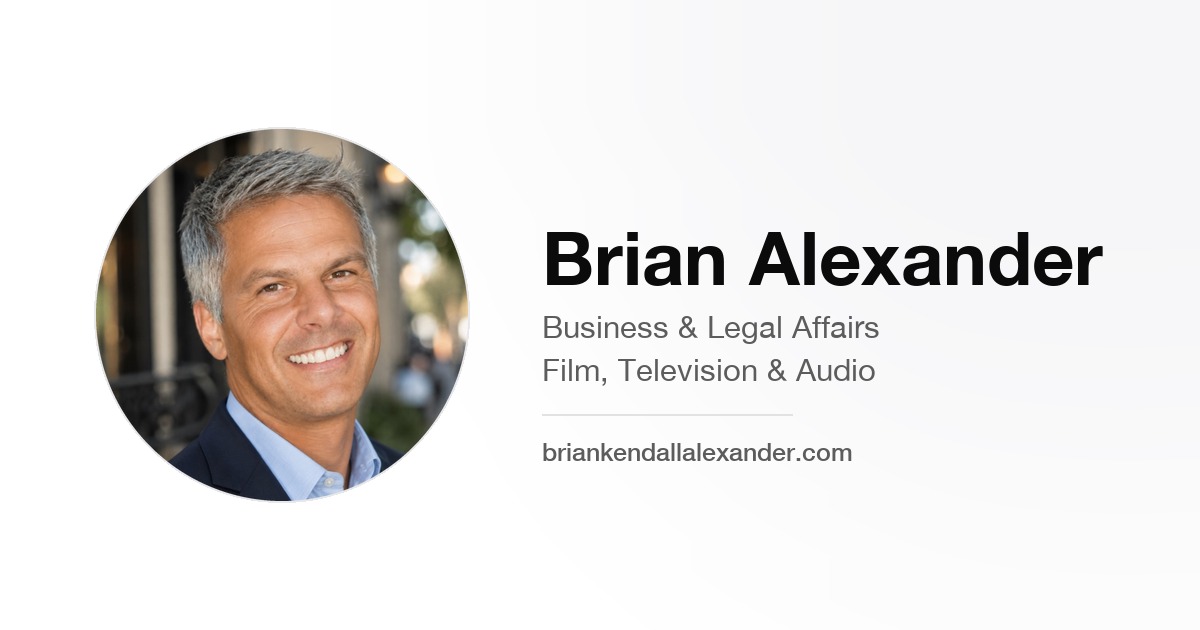
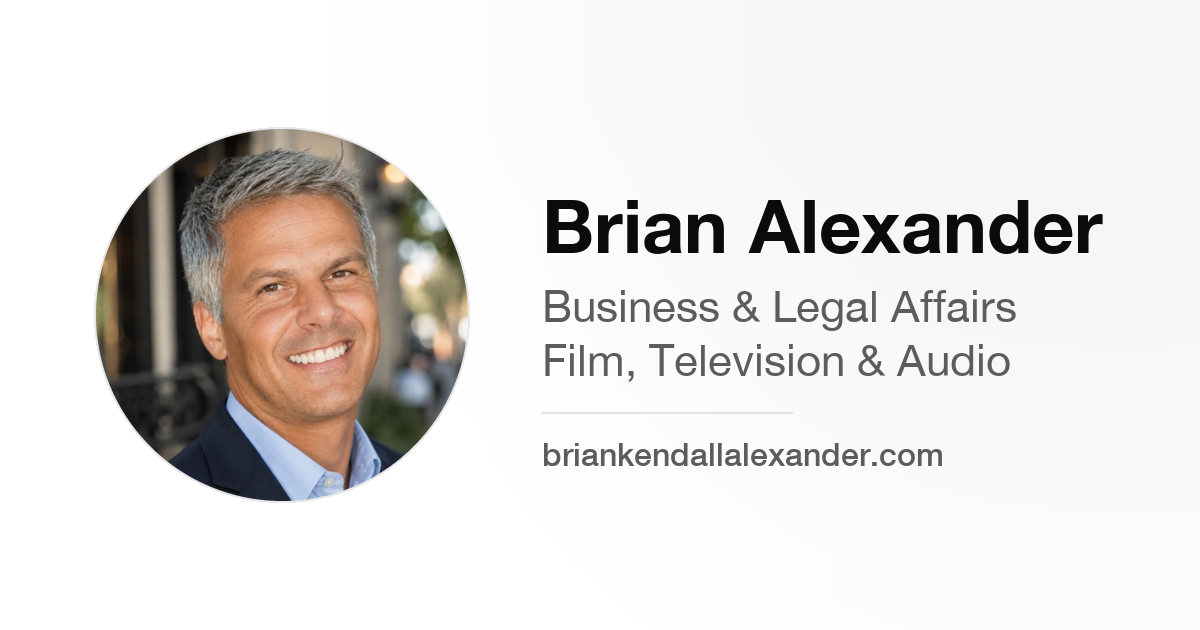
Enlarge social card type and match the share headline to it
At a typical 500px feed preview the role line rendered at 12.9px and the
URL at 10.4px. Role goes 31->44px and the URL 25->32px, which land at
18.3px and 13.3px on screen.

og:title and twitter:title said 'Entertainment Attorney' while the card
image said 'Business & Legal Affairs'; the headline now matches the card.

Changed region(s): [[0.4317, 0.3016, 0.925, 0.6032], [0.4317, 0.6937, 0.8017, 0.754], [0.4625, 0.6333, 0.6475, 0.6635]]

diff --git a/index.html b/index.html
@@ -9,7 +9,7 @@
   <meta name="theme-color" content="#0b0b0c" />
   <link rel="canonical" href="https://briankendallalexander.com/" />
 
-  <meta property="og:title" content="Brian Alexander | Entertainment Attorney" />
+  <meta property="og:title" content="Brian Alexander | Business &amp; Legal Affairs" />
   <meta property="og:description" content="Business &amp; Legal Affairs attorney with deep experience in documentary, unscripted, development, production, rights and licensing." />
   <meta property="og:type" content="profile" />
   <meta property="og:url" content="https://briankendallalexander.com/" />
@@ -17,7 +17,7 @@
   <meta property="og:image:width" content="1200" />
   <meta property="og:image:height" content="630" />
   <meta name="twitter:card" content="summary_large_image" />
-  <meta name="twitter:title" content="Brian Alexander | Entertainment Attorney" />
+  <meta name="twitter:title" content="Brian Alexander | Business &amp; Legal Affairs" />
   <meta name="twitter:description" content="Business &amp; Legal Affairs attorney with deep experience in documentary, unscripted, development, production, rights and licensing." />
   <meta name="twitter:image" content="https://briankendallalexander.com/og-image.png" />
 
